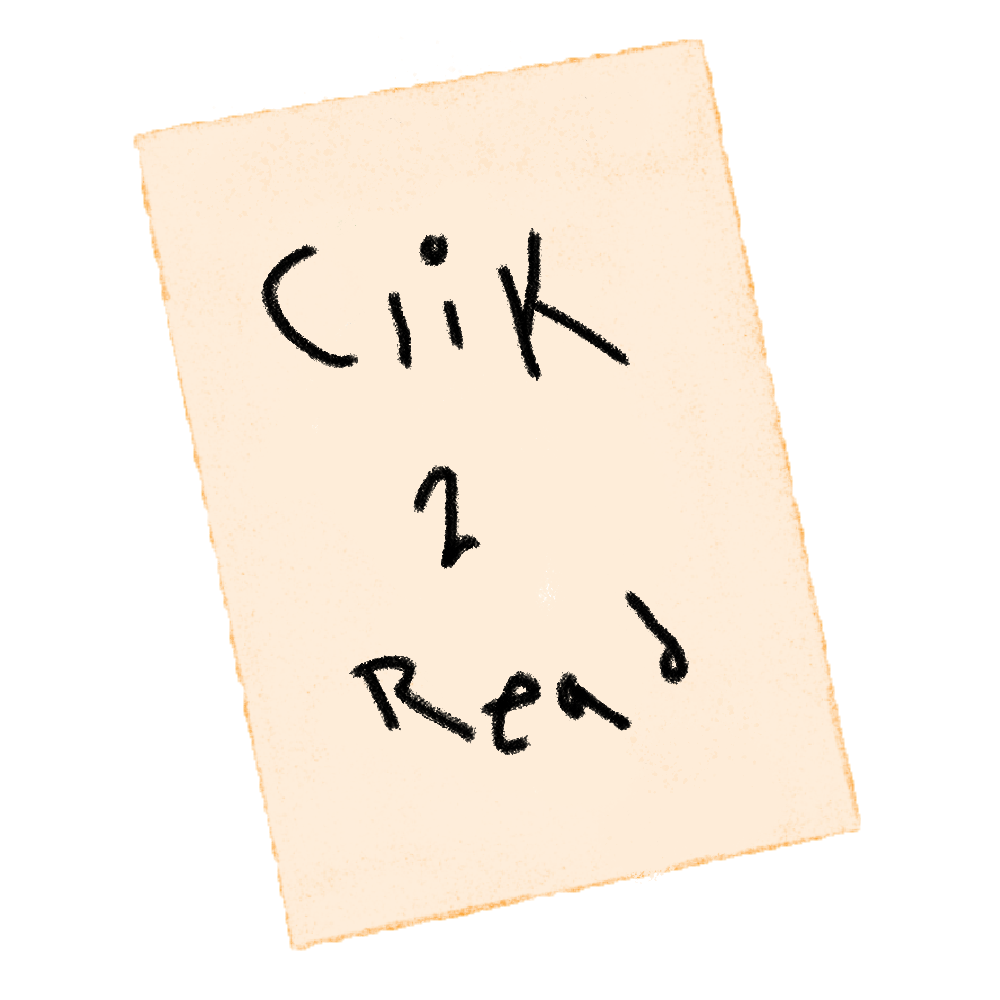
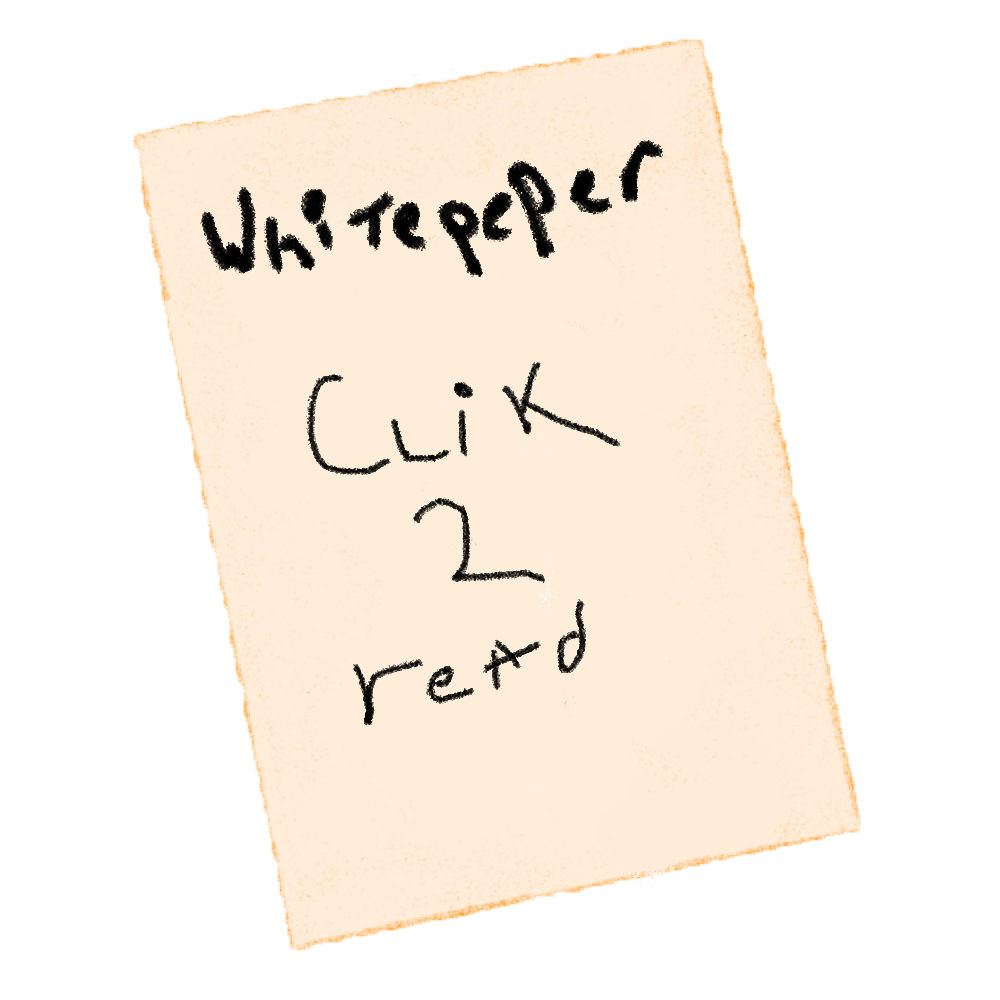
Add mobile support

diff --git a/app/page.tsx b/app/page.tsx
@@ -13,7 +13,7 @@ export default function Home() {
   return (
     <main className="flex min-h-screen flex-col items-center bg-white overflow-hidden">
       <div className="bg-spatter min-h-screen w-full fixed"></div>
-      <div className="h-full w-full flex items-center justify-center relative max-w-[1500px] pt-24">
+      <div className="h-full w-full flex items-center justify-center relative max-w-[1500px] pt-12">
         <Image
           className="relative sm:w-full md:w-[70%] lg:w-[55%]"
           src="/monksmain.png"
@@ -23,7 +23,7 @@ export default function Home() {
         />
         <a
           href="#tokenomics"
-          className="absolute left-[10%] rotate-[12deg] hover:scale-110 cursor-pointer w-[25%]"
+          className="hidden md:block absolute left-[10%] rotate-[12deg] hover:scale-110 cursor-pointer w-[25%]"
         >
           <Image
             src="/link_tokenomics.png"
@@ -34,7 +34,7 @@ export default function Home() {
         </a>
         <a
           href="#presale"
-          className="absolute left-[8%] bottom-[22%] rotate-[-12deg] hover:scale-110 cursor-pointer w-[35%]"
+          className="hidden md:block absolute left-[8%] bottom-[22%] rotate-[-12deg] hover:scale-110 cursor-pointer w-[35%]"
         >
           <Image
             className="w-full"
@@ -46,7 +46,7 @@ export default function Home() {
         </a>
         <a
           href="#whitepeper"
-          className="absolute bottom-[42%] right-[10%] rotate-[-12deg] hover:scale-110 cursor-pointer w-[25%]"
+          className="hidden md:block absolute bottom-[42%] right-[10%] rotate-[-12deg] hover:scale-110 cursor-pointer w-[25%]"
         >
           <Image
             src="/link_whitepaper.png"
@@ -55,9 +55,10 @@ export default function Home() {
             alt="Tokenomiqs"
           />
         </a>
-        <div className="absolute flex z-100 left-[62%] bottom-[23%] w-[60%] rotate-[12deg]">
+        <div className="hidden md:flex absolute z-100 left-[62%] bottom-[21%] w-[60%] rotate-[12deg]">
           <a
             href="https://x.com/inj_monks"
+            target="_blank"
             className="rotate-[-12deg] hover:scale-110 cursor-pointer w-[25%]"
           >
             <Image
@@ -68,7 +69,11 @@ export default function Home() {
               alt="Tokenomiqs"
             />
           </a>
-          <a className="rotate-[12deg] hover:scale-110 cursor-pointer w-[25%]">
+          <a
+            href="https://t.me/monks_inj"
+            target="_blank"
+            className="rotate-[12deg] hover:scale-110 cursor-pointer w-[25%]"
+          >
             <Image
               className="w-full"
               src="/link_telegram.png"
@@ -79,7 +84,35 @@ export default function Home() {
           </a>
         </div>
       </div>
-      <div className="h-full w-full flex items-center justify-center relative">
+      <div className="block md:hidden flex z-100 justify-center pb-8">
+        <a
+          href="https://x.com/inj_monks"
+          target="_blank"
+          className="rotate-[-12deg] hover:scale-110 cursor-pointer w-[25%]"
+        >
+          <Image
+            className="w-full"
+            src="/link_x.png"
+            height={200}
+            width={300}
+            alt="Tokenomiqs"
+          />
+        </a>
+        <a
+          href="https://t.me/monks_inj"
+          target="_blank"
+          className="rotate-[12deg] hover:scale-110 cursor-pointer w-[25%]"
+        >
+          <Image
+            className="w-full"
+            src="/link_telegram.png"
+            height={200}
+            width={300}
+            alt="Tokenomiqs"
+          />
+        </a>
+      </div>
+      <div className="h-full w-full flex items-center justify-center relative mt-12 md:mt-0">
         <Image
           className="relative top-[-50px]"
           src="/rule.png"
@@ -94,7 +127,7 @@ export default function Home() {
       >
         <Image
           className={csx(
-            "relative top-0 left-[-10%] rotate-[-6deg] cursor-pointer w-[40%] transition hover:scale-105"
+            "relative top-0 left-[-10%] rotate-[-6deg] w-[70%] lg:w-[40%] transition"
           )}
           src="/presaleinfo.png"
           height={500}
@@ -103,7 +136,8 @@ export default function Home() {
         />
         <Image
           className={csx(
-            "absolute top-0 left-[50%] cursor-pointer w-[40%] transition hover:scale-105"
+            "absolute top-0 w-[40%] transition",
+            "left-[60%] top-[20%] md:left-[50%]"
           )}
           src="/gimmesuck.png"
           height={500}
@@ -116,7 +150,7 @@ export default function Home() {
         className="h-full w-full flex items-center justify-center relative max-w-[1500px]"
       >
         <Image
-          className="cursor-pointer w-[50%]"
+          className="w-[90%] md:w-[50%]"
           src="/tokenomics.png"
           height={500}
           width={500}
@@ -125,12 +159,12 @@ export default function Home() {
       </div>
       <div
         id="whitepeper"
-        className="relative h-full w-full flex flex-col items-center justify-center mt-16 max-w-[1500px]"
+        className="relative h-full w-full flex flex-col items-center justify-center max-w-[1500px]"
       >
         <Image
           className={csx(
-            "absolute cursor-pointer w-[50%] transition hover:scale-105 rotate-12",
-            isViewingPepper ? "top-[-25%]" : "top-0"
+            "absolute cursor-pointer top-[50%] md:top-[20%] w-[75%] md:w-[50%] transition hover:scale-105 rotate-[-24deg]",
+            isViewingPepper ? "left-[-10%] md:left-[11%]" : "left-[33%]"
           )}
           style={{ transitionProperty: "all" }}
           src="/papermonk.png"
@@ -139,7 +173,7 @@ export default function Home() {
           alt="Tokenomiqs"
         />
         <Image
-          className="relative cursor-pointer w-[50%]"
+          className="relative cursor-pointer w-[90%] md:w-[50%]"
           src="/whitepaper.png"
           height={500}
           width={500}
@@ -147,8 +181,10 @@ export default function Home() {
         />
         <Image
           className={csx(
-            "absolute top-0 cursor-pointer w-[50%] transition hover:scale-105",
-            isViewingPepper ? "left-[50%] rotate-12" : "left-[28%]"
+            "absolute top-0 cursor-pointer transition hover:scale-105 w-[90%] md:w-[50%]",
+            isViewingPepper
+              ? "left-[50%] rotate-12"
+              : "left-[12%] md:left-[28%]"
           )}
           style={{ transitionProperty: "all" }}
           onClick={() => setIsViewingPepper(!isViewingPepper)}
@@ -167,18 +203,18 @@ export default function Home() {
           alt="$MONKS"
         />
       </div>
-      {/* <div
+      <div
         id="tokenomics"
-        className="h-full w-full flex items-center justify-center relative max-w-[1600px]"
+        className="h-full w-full flex items-center justify-center relative max-w-[1600px] mb-20"
       >
         <Image
-          className="cursor-pointer w-[50%]"
+          className="cursor-pointer w-[100%] md:w-[50%]"
           src="/footer.png"
           height={500}
           width={500}
           alt="Tokenomiqs"
         />
-      </div> */}
+      </div>
 
       {/* <Image
           className="absolute left-[100px] top-[350px] rotate-[12deg] hover:scale-110 cursor-pointer"

diff --git a/app/layout.tsx b/app/layout.tsx
@@ -5,8 +5,8 @@ import "./globals.css";
 const inter = Inter({ subsets: ["latin"] });
 
 export const metadata: Metadata = {
-  title: "Create Next App",
-  description: "Generated by create next app",
+  title: "$MONK",
+  description: "Suk it",
 };
 
 export default function RootLayout({
